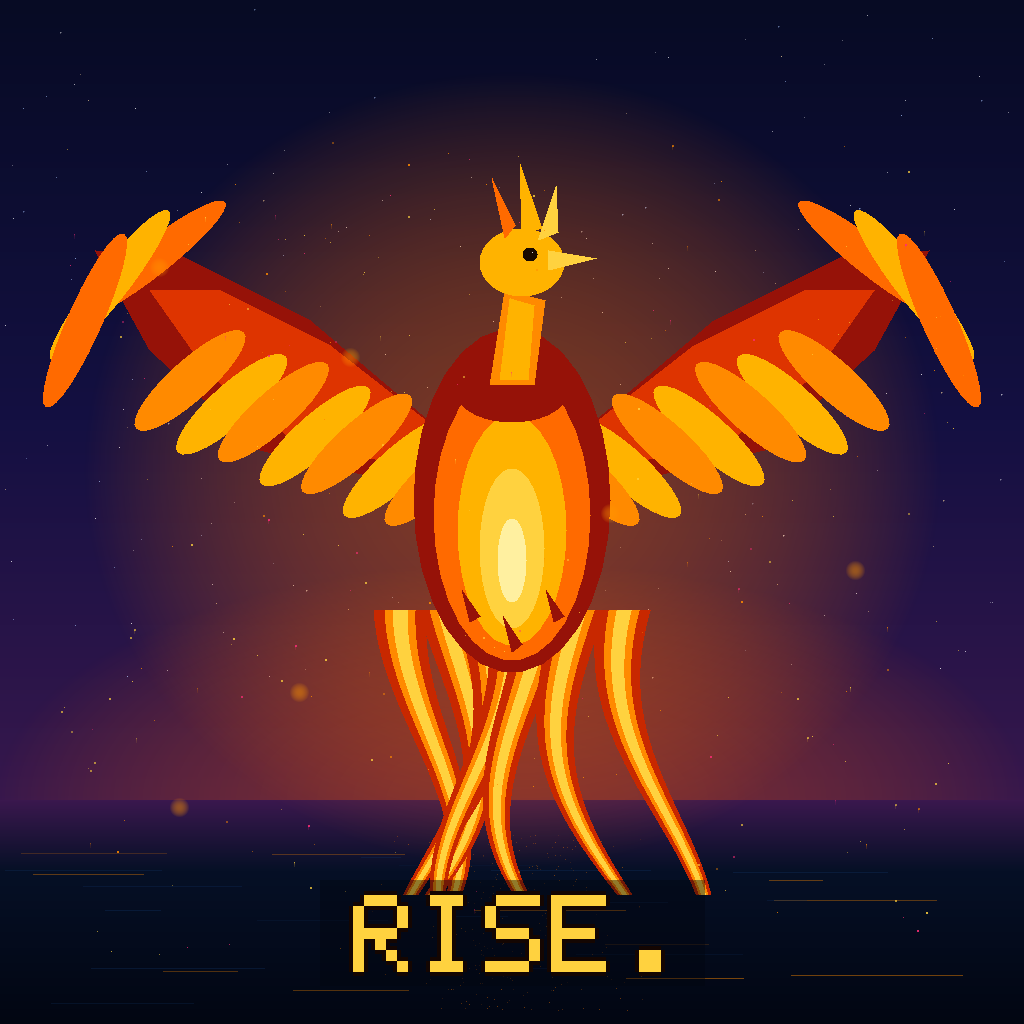
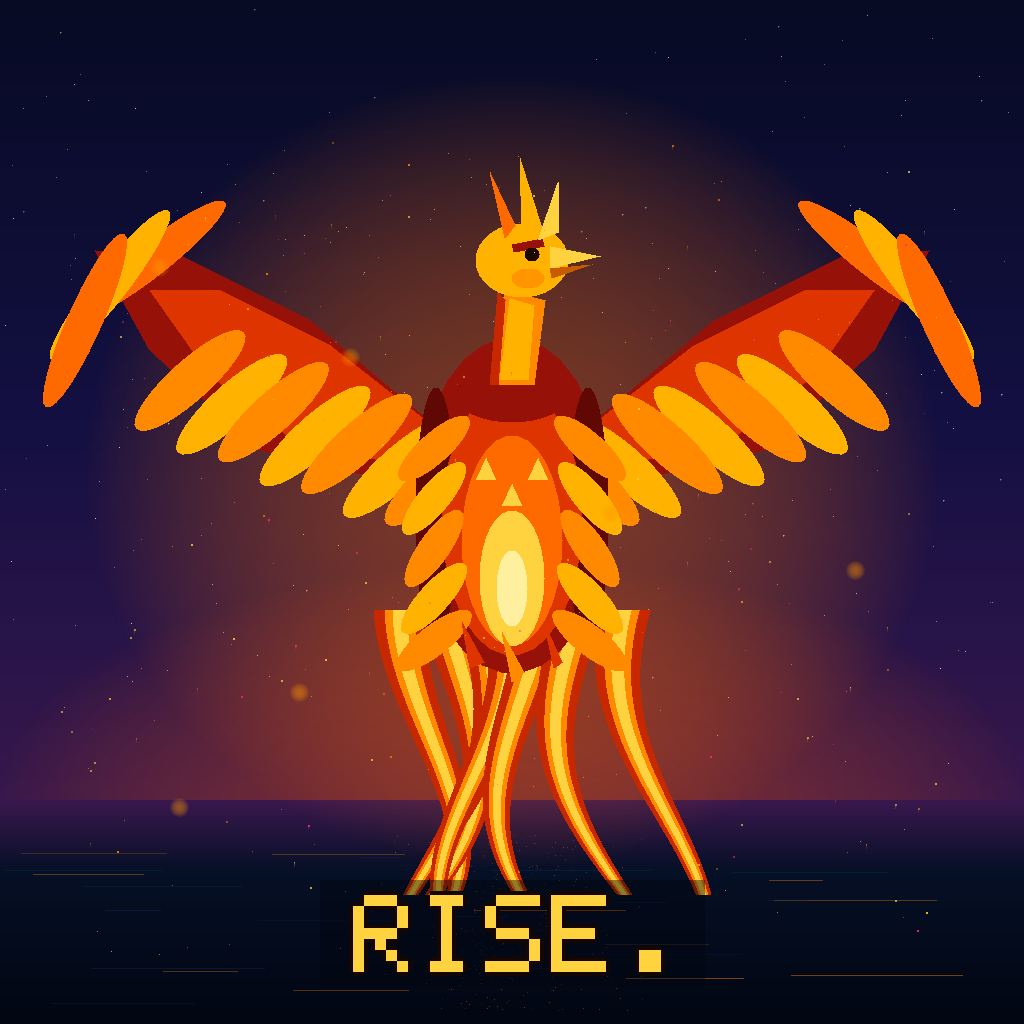
Round 3 polish: break the egg-oval body — flank feathers, belly core, defined head

Changed region(s): [[0.375, 0.2812, 0.625, 0.6562], [0.4688, 0.2188, 0.5625, 0.2812]]

diff --git a/main.py b/main.py
@@ -204,34 +204,65 @@ def wing(mirror):
 
 
 def draw_body():
-    # layered body: deep red shell -> orange -> gold -> bright core
-    # body: flame-licked stack — bright core sinks toward the belly,
-    # so the rings read as fire, not a target
-    fill_ellipse(512, 500, 98, 172, (150, 18, 8))
-    fill_ellipse(512, 515, 78, 145, (255, 106, 0))
-    fill_ellipse(512, 530, 54, 115, (255, 179, 0))
-    fill_ellipse(512, 548, 32, 80, (255, 210, 63))
-    fill_ellipse(512, 560, 14, 42, (255, 240, 160))
+    # POLISH (round 3): the old body read as a flat oval "egg" because the
+    # bright core sat dead-centre in concentric rings. Fix, same palette
+    # and composition:
+    #  1. bright core drops to the BELLY (low, small) — glowing belly,
+    #     not a target centre;
+    #  2. dark flank shading gives the torso roundness/depth;
+    #  3. overlapping flank feathers + flame tufts scallop the outline
+    #     so the silhouette is no longer a smooth oval;
+    #  4. head slightly larger, two-tone beak, brow + cheek.
+    # --- torso base: deep red shell
+    fill_ellipse(512, 505, 96, 168, (150, 18, 8))
+    # dark flank shading: roundness, edges darker than the centre
+    fill_ellipse(436, 515, 20, 128, (96, 8, 4))
+    fill_ellipse(588, 515, 20, 128, (96, 8, 4))
+    # warm mid layers, sinking toward the belly
+    fill_ellipse(512, 520, 70, 135, (222, 52, 0))
+    fill_ellipse(512, 540, 50, 105, (255, 106, 0))
+    # bright belly core (low) + cream heart
+    fill_ellipse(512, 578, 32, 68, (255, 210, 63))
+    fill_ellipse(512, 588, 15, 38, (255, 240, 160))
+    # chest flame flickers: small gold tongues on the upper chest
+    # (upward = flame licks; the dark chevrons read as a stray face)
+    for cx, cy in [(486, 470), (538, 470), (512, 496)]:
+        fill_poly([(cx - 10, cy + 10), (cx, cy - 12), (cx + 10, cy + 10)],
+                  (255, 210, 63))
+    # flank feathers: overlapping flame feathers sticking OUT past the
+    # oval edge — breaks the silhouette on both sides (symmetric)
+    for side in (-1, 1):
+        for i, (fy, fr) in enumerate([(448, 42), (498, 50),
+                                      (548, 55), (598, 48), (640, 38)]):
+            fx = 512 + side * 78
+            col = (255, 138, 0) if i % 2 == 0 else (255, 179, 0)
+            fill_ellipse(fx, fy, 46, 15, col, rot_deg=side * fr)
+    # flame tufts past the bottom edge, over the tail ribbons
+    fill_poly([(470, 668), (462, 622), (484, 662)], (222, 52, 0))
+    fill_poly([(512, 682), (502, 632), (524, 672)], (255, 138, 0))
+    fill_poly([(554, 668), (544, 622), (562, 662)], (222, 52, 0))
     # dark collar at the neck base hides the neck/body seam
-    fill_ellipse(512, 392, 55, 30, (150, 18, 8))
-    # dark flame tufts on the belly break the ring pattern
-    fill_poly([(470, 622), (462, 590), (480, 616)], (150, 18, 8))
-    fill_poly([(512, 652), (503, 616), (522, 644)], (150, 18, 8))
-    fill_poly([(554, 622), (546, 590), (564, 616)], (150, 18, 8))
-    # neck
+    fill_ellipse(512, 392, 58, 30, (150, 18, 8))
+    # neck (tapered) + darker left edge for depth
     fill_poly([(490, 385), (534, 385), (545, 300), (505, 290)], (255, 138, 0))
     fill_poly([(500, 380), (528, 380), (534, 305), (510, 298)], (255, 179, 0))
-    # head
-    fill_ellipse(522, 262, 42, 34, (255, 179, 0))
-    # beak, pointing up-right
-    fill_poly([(548, 250), (596, 258), (548, 270)], (255, 210, 63))
+    fill_poly([(490, 385), (498, 385), (505, 300), (498, 292)], (200, 40, 0))
+    # head: slightly larger, rounder
+    fill_ellipse(522, 260, 46, 37, (255, 179, 0))
+    # cheek patch below the eye
+    fill_ellipse(528, 278, 16, 10, (255, 150, 0))
+    # beak, two-tone: gold upper + darker lower, pointing up-right
+    fill_poly([(550, 246), (600, 256), (550, 268)], (255, 210, 63))
+    fill_poly([(550, 268), (592, 264), (552, 278)], (200, 90, 0))
+    # brow line above the eye (fierce, defined)
+    fill_poly([(512, 244), (542, 238), (544, 246), (514, 252)], (150, 18, 8))
     # eye + glint
-    fill_ellipse(530, 254, 7, 7, (26, 10, 0))
-    blend_px(532, 252, (255, 255, 255), 220)
-    # crest: three flame feathers
-    fill_poly([(505, 238), (492, 178), (515, 225)], (255, 106, 0))
-    fill_poly([(522, 234), (520, 164), (542, 228)], (255, 179, 0))
-    fill_poly([(538, 240), (556, 186), (558, 232)], (255, 210, 63))
+    fill_ellipse(532, 254, 7, 7, (26, 10, 0))
+    blend_px(534, 252, (255, 255, 255), 220)
+    # crest: three flame feathers (slightly longer)
+    fill_poly([(505, 238), (490, 172), (515, 225)], (255, 106, 0))
+    fill_poly([(522, 234), (520, 158), (542, 228)], (255, 179, 0))
+    fill_poly([(538, 240), (558, 182), (558, 232)], (255, 210, 63))
 
 
 def draw_embers(rng):
